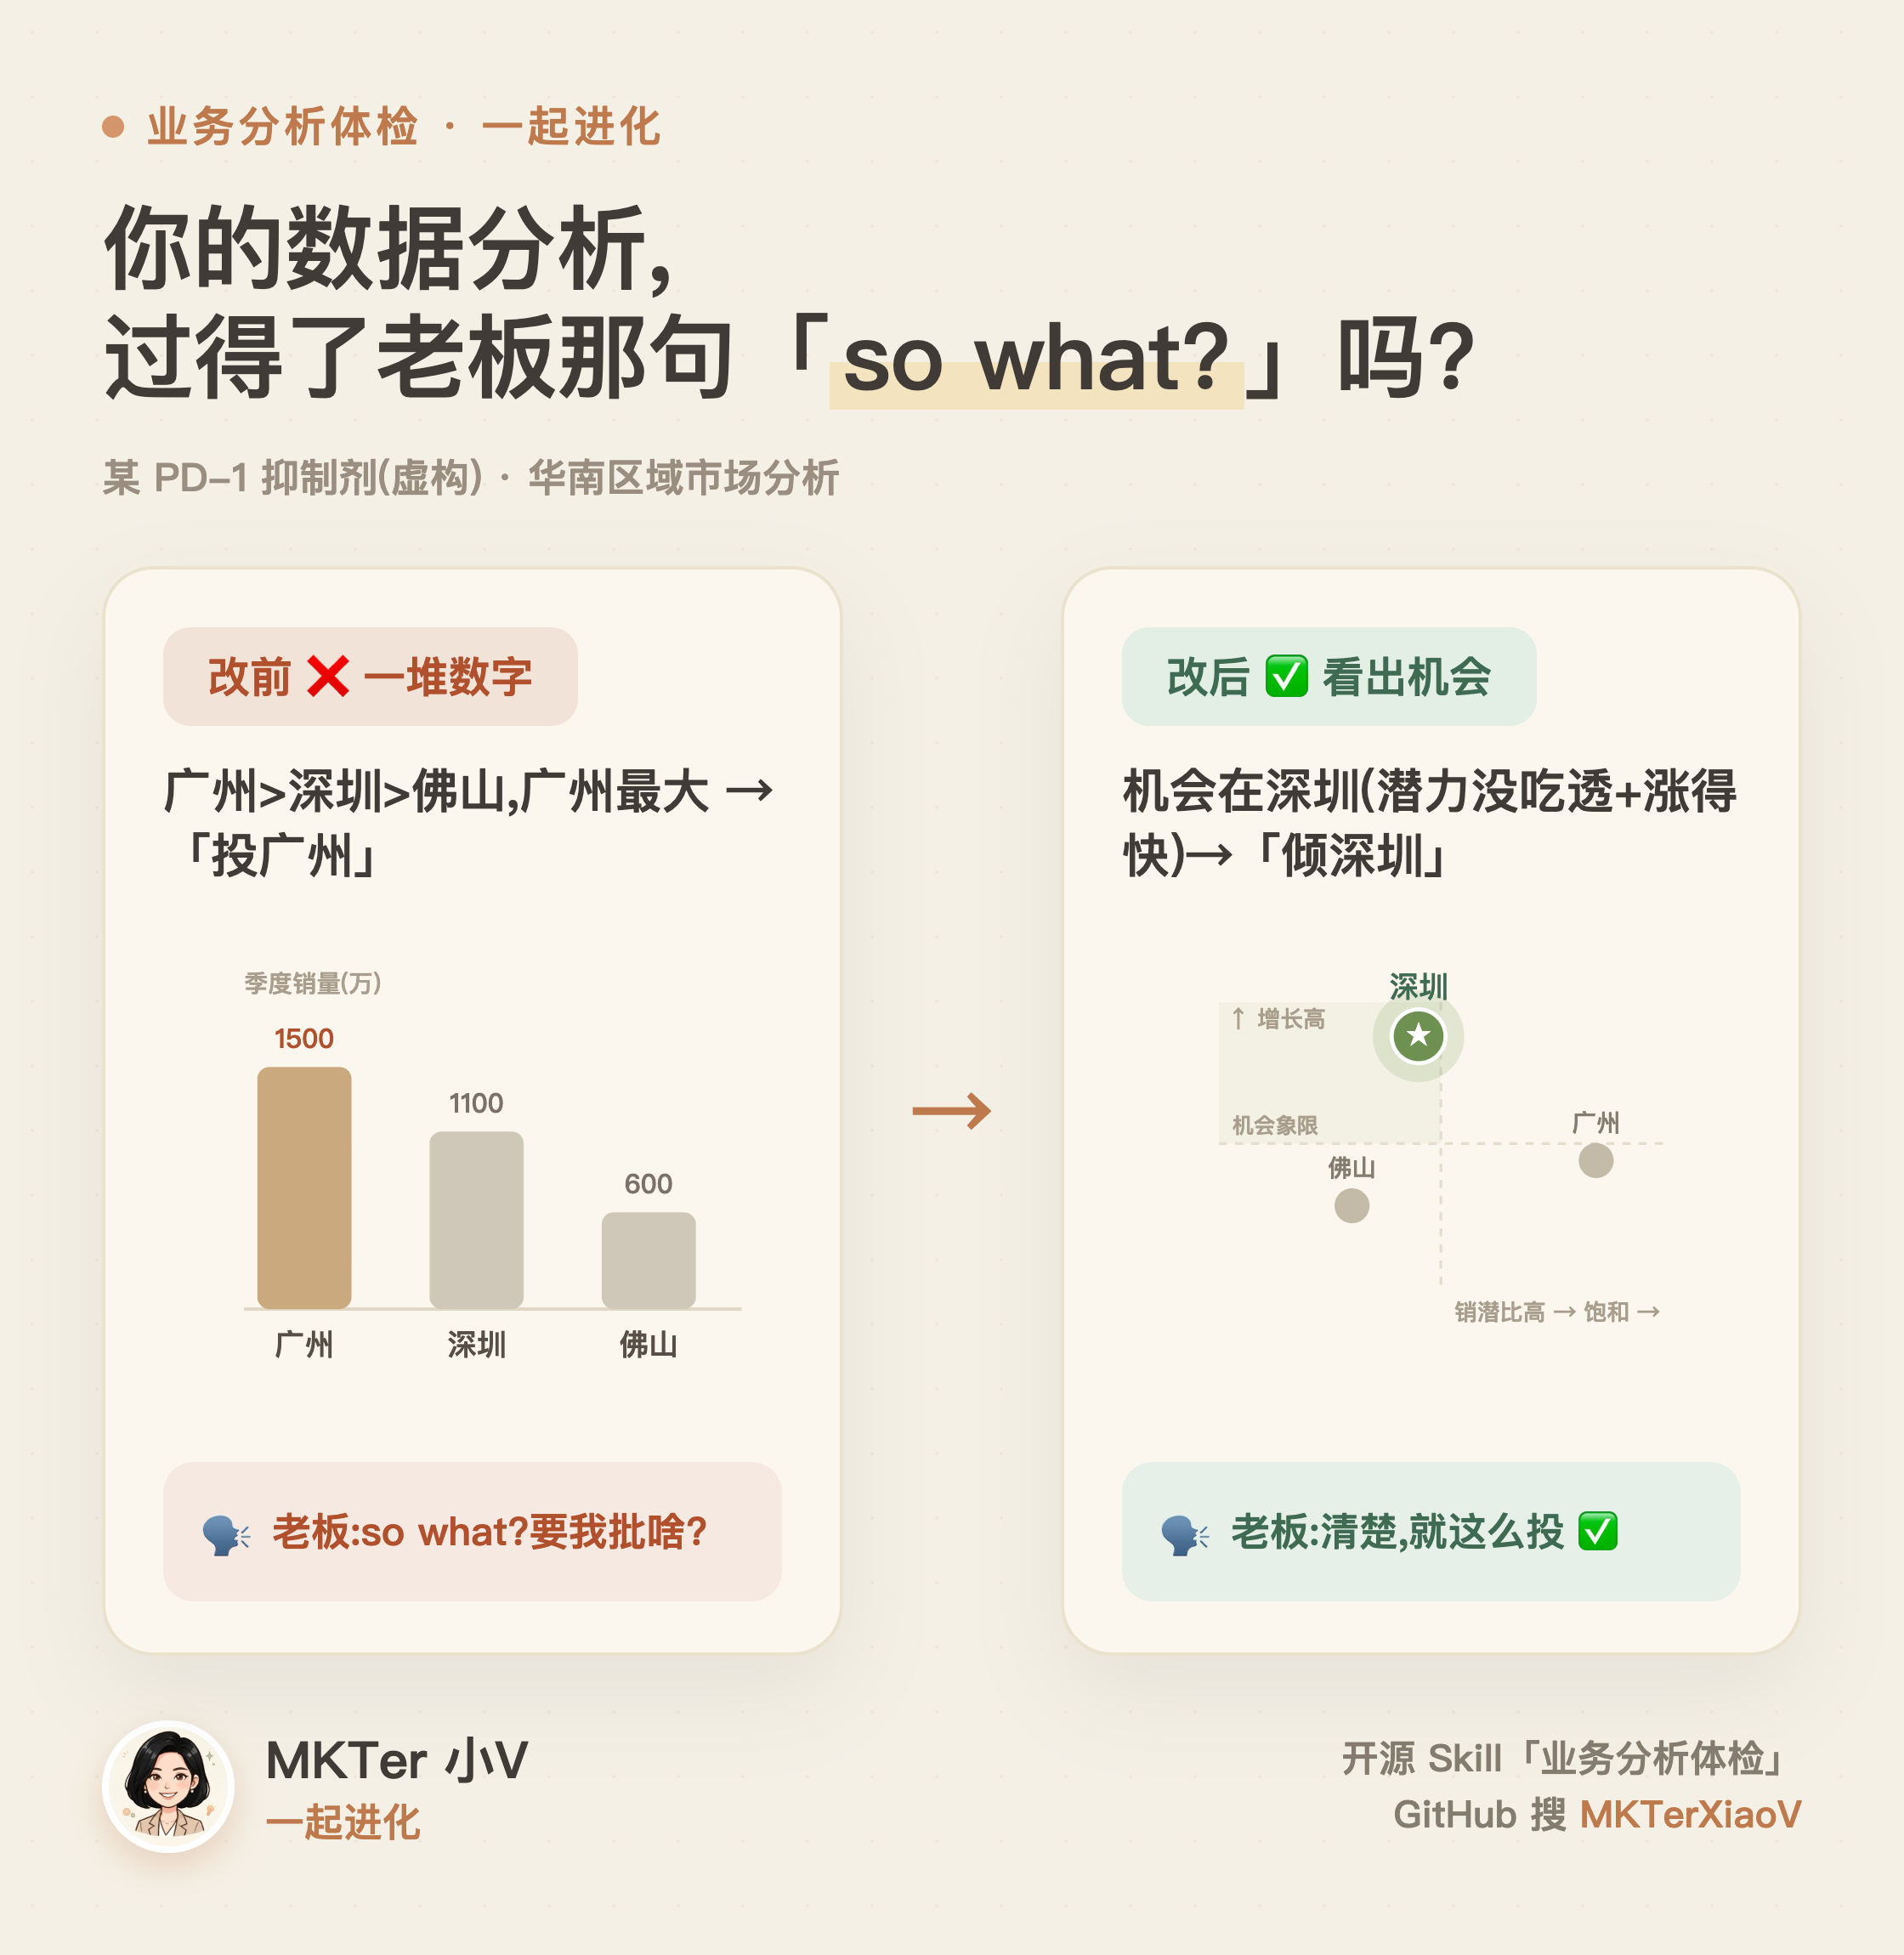
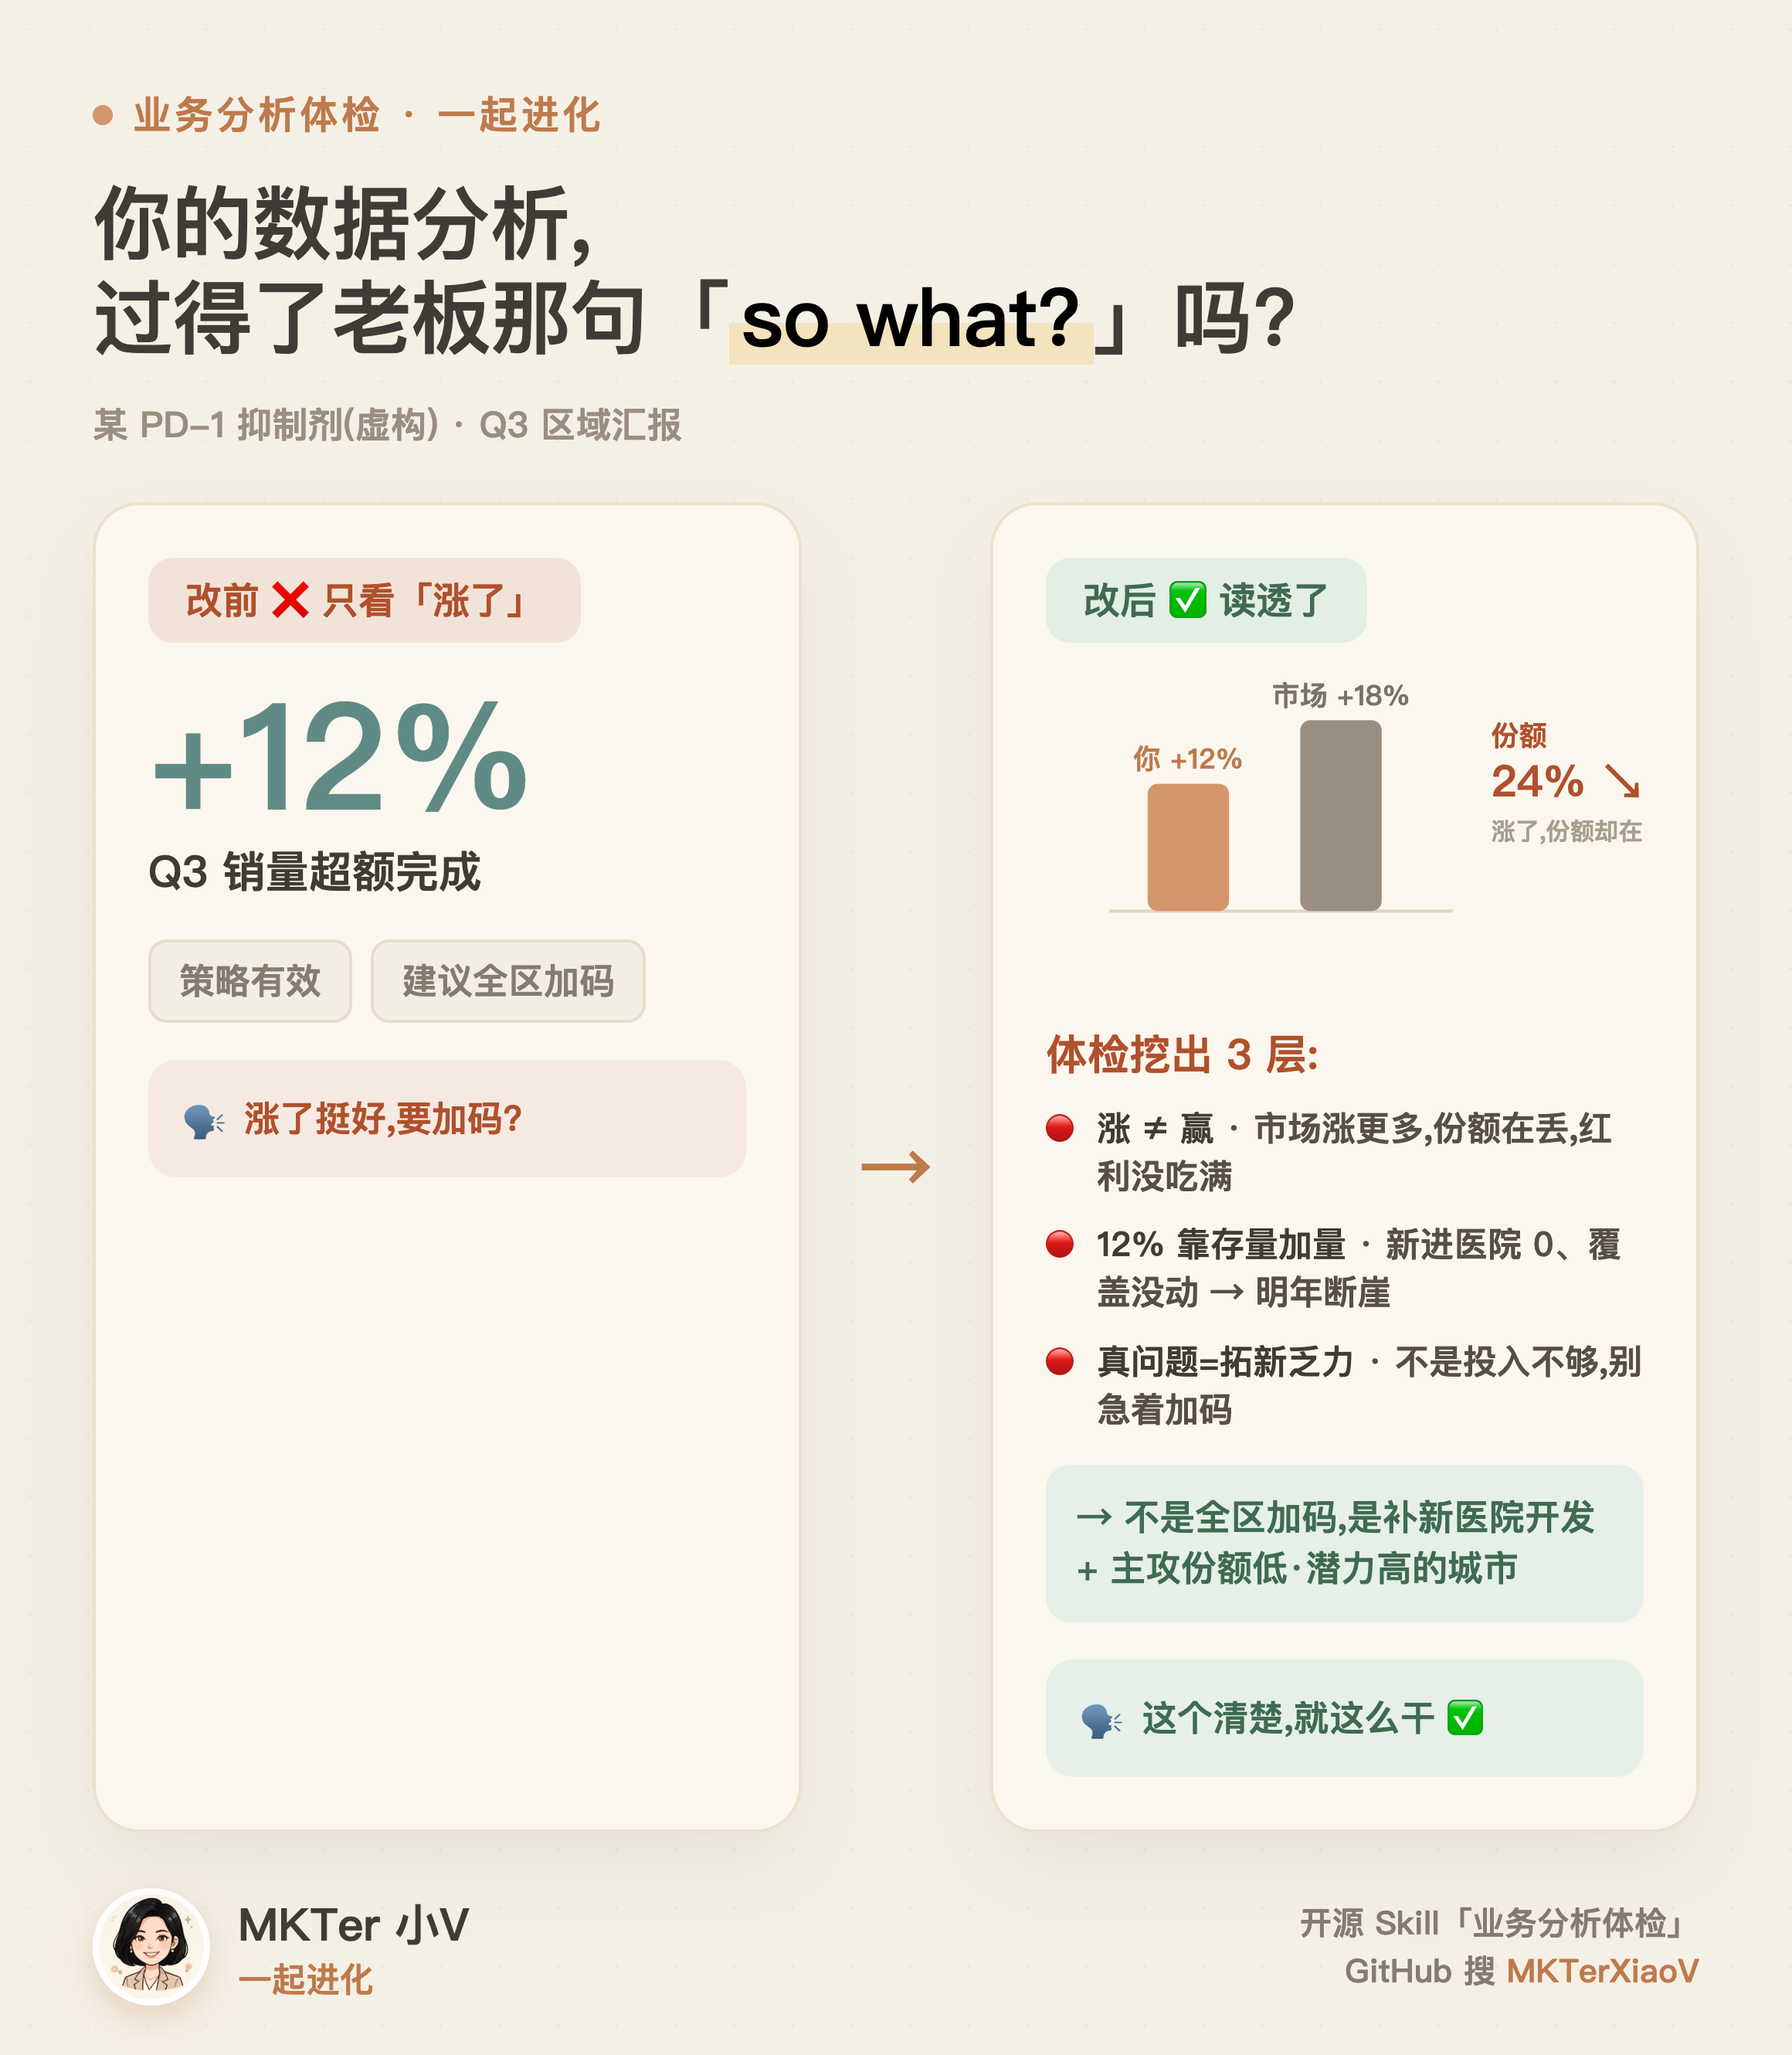
demo 换深案例:涨了≠你赢了(份额背离/过程水分/真问题)

diff --git a/examples/区域分析-样张.md b/examples/区域分析-样张.md
@@ -1,22 +1,22 @@
-# 样张:业务分析体检 改前 → 改后（虚构 · 某 PD-1 抑制剂 华南区域）
+# 样张:业务分析体检 改前 → 改后（虚构 · 某 PD-1 · Q3 区域汇报）
 
-> 脱敏:产品、城市数据均为虚构,无真实管线/份额。
+> 脱敏:产品/数据均为虚构。本例展示 skill 的"深度"——catch 看着对、其实错的判断。
 
-## 输入（用户给的分析）
-> "某 PD-1 华南区域:广州季度销量 1500 万 > 深圳 1100 万 > 佛山 600 万。广州最好,下季度继续重点投广州。"
+## 输入（用户给的分析)
+> "Q3 销量 +12%,超额完成。新策略有效,建议全区加码。"
 
-## 体检输出（标准档）
-**评级:未及格线,建议返工** —— 只看了自己的结果数据,没接外部潜力,只到大小排序,结论没支撑。
+## 体检输出（标准档)
+**评级:未及格线,建议返工** —— 只看了"自己涨了多少",被表象骗了。
 
-🔴 **挑刺（逐条引原句）**
-1. 〔广州>深圳>佛山〕**只看自己、只到"看大小"**:没看周边(其他 PD-1 竞品份额)、没看全局(各城市适用瘤种患者池/可治疗医院数)→ 覆盖不及格。
-2. 〔广州最好〕**没切分没关联**:广州销量大,但**销潜比**(销量 ÷ 患者潜力)看了吗?可能已接近饱和。
-3. 〔继续投广州〕**没递进、没行动逻辑**:为什么是广州?深圳增长更快吗?这是拍脑袋。
+🔴 **挑刺(逐条引原句)**
+1. 〔+12% 策略有效〕**涨 ≠ 赢(份额背离 + 没看周边/不误读)**:同期市场涨 18%、你涨 12% → 份额 24%→22% **在丢**。涨是市场红利,不是你赢。
+2. 〔超额完成〕**过程↔结果断点**:这 12% 全靠 TOP5 存量医院加量;新进医院 0、拜访覆盖没动 → **没有新引擎,明年有断崖风险**。
+3. 〔建议全区加码〕**没递进**:加码加哪没说?切分后真问题是 **拓新乏力**,不是投入不够。
 
 🟢 **改写建议**
-- 拉**外部潜力**(各城市适用瘤种患者池 + 竞品 PD-1 份额)→ 算**销潜比**:广州高=接近饱和,深圳低=机会未吃透。
-- 看**增长Δ**与**标杆**:深圳 GR 若高于区域平均=增长引擎。
-- **递进到行动**:下季度主攻"潜力未吃透 + 高增长"的深圳,广州守。
+- 别被 +12% 骗:先看份额(在丢)+ 过程(靠存量)→ 看清"涨"的质量。
+- 递进到真问题:**拓新乏力**。
+- 行动:不是全区加码,是 **补新医院开发 + 主攻份额低·潜力高的城市**。
 
-## 改后（应得评级:良好）
-"按销潜比,广州 0.85(近饱和)、深圳 0.45(潜力未吃透),且深圳 GR 22% 高于华南区域 11%。→ 下季度资源向深圳倾斜,广州维持。"
+## 改后（应得评级:良好)
+"市场涨 18% 我们涨 12% → 份额在丢(红利没吃满);增长靠存量加量、新医院 0 → 不可持续。真问题=拓新。下一步:补新医院开发 + 主攻份额低潜力高城市,不盲目全区加码。"